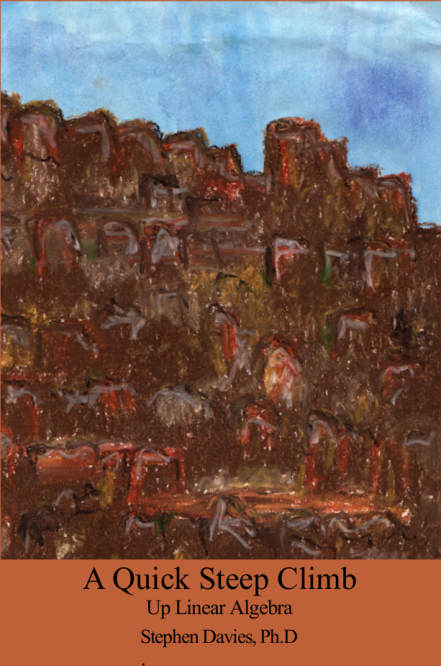
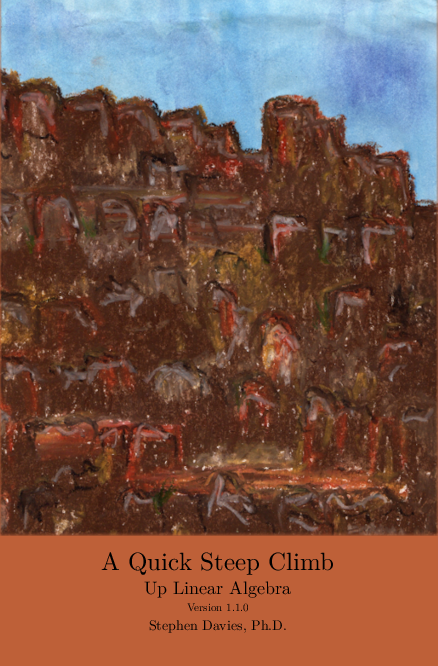
Update version number for typo fixes.

diff --git a/quick.tex b/quick.tex
@@ -133,7 +133,7 @@
 
 \begin{document}
 
-\title{A Quick Steep Climb\\Up Linear Algebra\\{\small version 1.1.0}}
+\title{A Quick Steep Climb\\Up Linear Algebra\\{\small version 1.1.1}}
 \author{Stephen Davies, Ph.D.\\Computer Science Department\\University of Mary Washington}
 \date{}
 \maketitle
